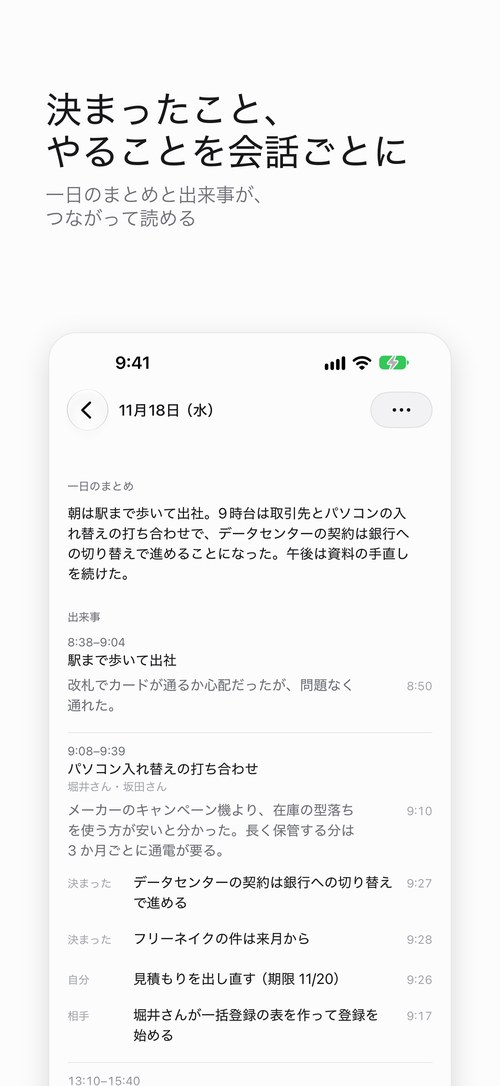
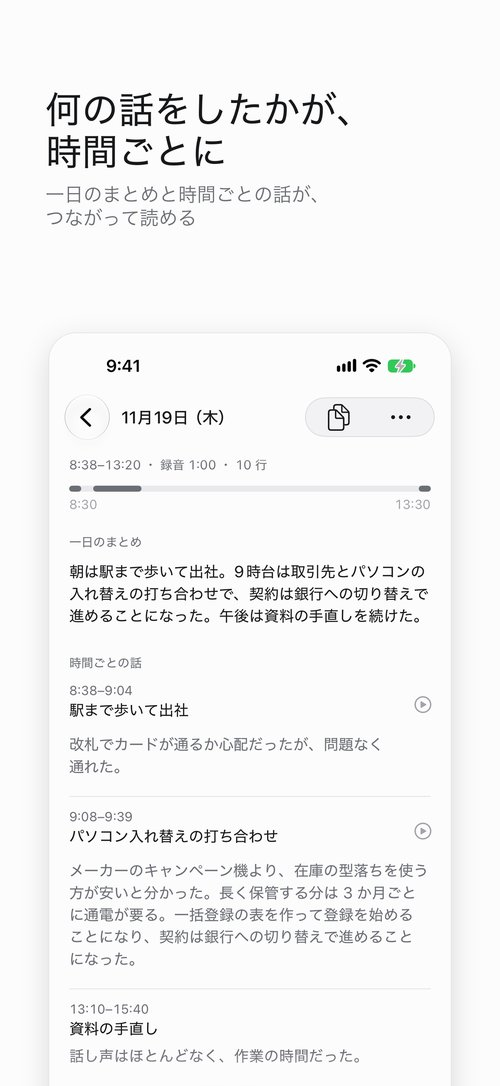
fix: DayDay の紹介ページを 1.0.0 の内容に（報告は一日のまとめと時間ごとの話・報告の手がかり・押したところから再生・画面の画像を差し替え・通知から録音の記述を削除）

diff --git a/dayday.html b/dayday.html
@@ -4,7 +4,7 @@
 <meta charset="UTF-8">
 <meta name="viewport" content="width=device-width, initial-scale=1.0">
 <title>DayDay｜一日を録って、夜には報告に。音声日記・行動記録・日報アプリ</title>
-<meta name="description" content="DayDay は、自分が参加する会話や独り言を Apple Watch・iPhone で録音し、日本語の文字起こしを iPhone の中で行って、一日の報告（概要・決まったこと・やること・気づき）にまとめる音声日記アプリ。音声は Pohoda のサーバーに送りません。">
+<meta name="description" content="DayDay は、自分が参加する会話や独り言を Apple Watch・iPhone で録音し、日本語の文字起こしを iPhone の中で行って、一日の報告（一日のまとめと、時間ごとの話）にまとめる音声日記アプリ。音声は Pohoda のサーバーに送りません。">
 <link rel="canonical" href="https://pohoda.jp/dayday.html">
 <link rel="alternate" hreflang="ja" href="https://pohoda.jp/dayday.html">
 <link rel="alternate" hreflang="x-default" href="https://pohoda.jp/dayday.html">
@@ -35,7 +35,7 @@
   "applicationCategory": "LifestyleApplication",
   "url": "https://pohoda.jp/dayday.html",
   "image": "https://pohoda.jp/assets/og/og-dayday.png",
-  "description": "DayDay は、自分が参加する会話や独り言を Apple Watch・iPhone で録音し、日本語の文字起こしを iPhone の中で行って、一日の報告（概要・決まったこと・やること・気づき）にまとめる音声日記アプリ。音声は Pohoda のサーバーに送りません。",
+  "description": "DayDay は、自分が参加する会話や独り言を Apple Watch・iPhone で録音し、日本語の文字起こしを iPhone の中で行って、一日の報告（一日のまとめと、時間ごとの話）にまとめる音声日記アプリ。音声は Pohoda のサーバーに送りません。",
   "inLanguage": "ja",
   "offers": {
     "@type": "Offer",
@@ -78,7 +78,7 @@
       <div class="cat-copy">
         <div class="app-id"><img class="app-icon" src="./assets/dayday-icon.png" alt="DayDay アイコン" width="44" height="44"><span>DayDay</span></div>
         <h1>一日を録って、<wbr>夜には報告に。</h1>
-        <p class="lead">Apple Watch か iPhone で、自分が参加する会話や独り言を録音します。文字起こしは iPhone の中で行い、概要・決まったこと・やることを一日の報告にまとめます。外部の AI の設定もアカウント登録もいりません。</p>
+        <p class="lead">Apple Watch か iPhone で、自分が参加する会話や独り言を録音します。文字起こしは iPhone の中で行い、一日のまとめと、時間ごとに何の話をしていたかを、一日の報告にまとめます。外部の AI の設定もアカウント登録もいりません。</p>
         <div class="btn-row">
         <span class="btn btn-primary" aria-disabled="true" style="cursor:default;opacity:.55;">App Store で近日公開</span><!-- TODO: 公開後に App Store の URL のリンクへ戻す -->
         <a class="btn btn-ghost" href="#screens">画面を見る ↓</a>
@@ -121,7 +121,7 @@
       <div class="features">
         <div class="feature">
           <h3><span class="dot"></span>録音は自分で始めて、自分で止める</h3>
-          <p>決めた時刻の通知からワンタップで録音が始まります。Apple Watch は iPhone が近くになくても録音でき、あとでまとめて届きます。録音中は OS のマイクの表示が出ます。</p>
+          <p>録音は、自分でボタンを押して始め、自分で止めます。Apple Watch は iPhone が近くになくても録音でき、あとでまとめて届きます。録音中は OS のマイクの表示が出ます。</p>
         </div>
         <div class="feature">
           <h3><span class="dot"></span>文字起こしは iPhone の中で</h3>
@@ -129,11 +129,15 @@
         </div>
         <div class="feature">
           <h3><span class="dot"></span>朝には報告ができている</h3>
-          <p>概要・時間帯ごとの出来事・決まったこと・やること・気づきが、話した項目だけ並びます。どの行からも元の文字起こしと音声に戻れます。</p>
+          <p>一日のまとめと、時間ごとに何の話をしていたかが並びます。報告から、その時刻の音声をすぐ再生でき、元の文字起こしにも戻れます。</p>
         </div>
         <div class="feature">
           <h3><span class="dot"></span>探す・まとめる</h3>
-          <p>言葉でも、質問でも探せます。やることは日をまたいで集まり、リマインダーやカレンダーに送れます。</p>
+          <p>言葉でも、質問でも探せます。今週のまとめで、日ごとに何をしていたかをふり返れます。</p>
+        </div>
+        <div class="feature">
+          <h3><span class="dot"></span>報告の手がかり（使いたい人だけ）</h3>
+          <p>カレンダーの予定、録音中にいた場所の付近の地名、歩きや乗り物での移動を、報告づくりの手がかりにできます。最初はオフで、設定でオンにしたものだけを使います。</p>
         </div>
         <div class="feature">
           <h3><span class="dot"></span>好きな AI に渡せる</h3>
